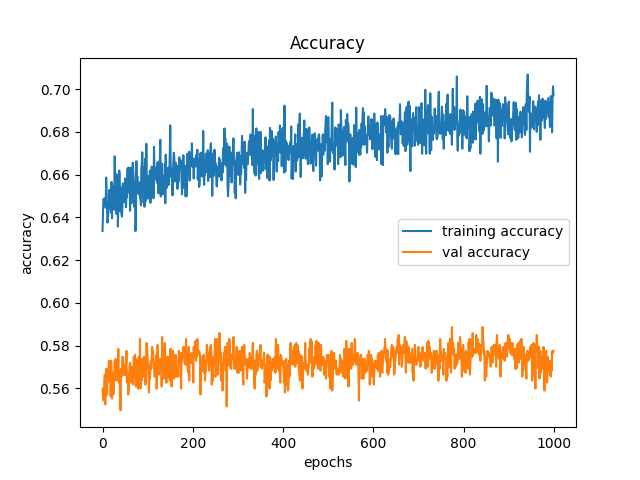
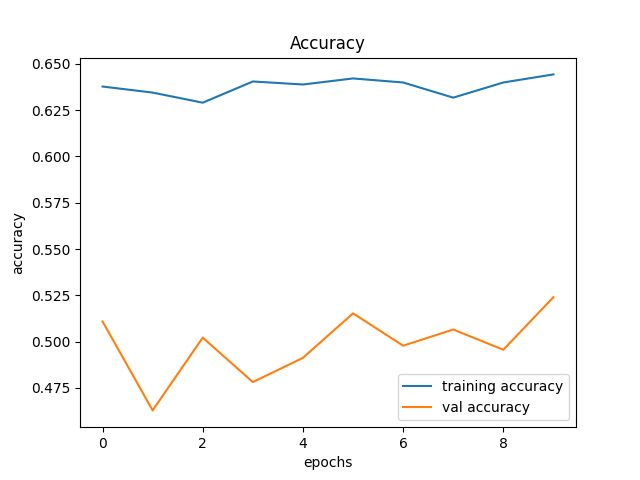
feat: modelo

diff --git a/main.py b/main.py
@@ -26,15 +26,15 @@ os.environ['TF_CPP_MIN_LOG_LEVEL'] = '2'
 seed = 12335234
 
 # Hiperparametros - 1
-batch_size = 64
-epochs = 1000
+batch_size = 32
+epochs = 10
 learning_rate = 1e-4
 
 # Fazer treinamento
 train = False
 
 # Imagem para testar
-image_teste = 'corgi.jpg'
+image_teste = 'validation/corgi2.jpg'
 
 # Tratamento de falha
 
@@ -47,8 +47,8 @@ error_recover = False
 epoch_carregada = 0
 
 # Hiperparametros - 2
-image_width = 40
-image_height = 40
+image_width = 220
+image_height = 220
 image_color_channel = 1
 image_size = (image_width, image_height)
 image_shape = image_size + (image_color_channel,)
@@ -56,16 +56,6 @@ image_shape = image_size + (image_color_channel,)
 racas = [
     "affenpinscher",
     "afghan_hound",
-    "african_hunting_dog",
-    "airedale",
-    "american_staffordshire_terrier",
-    "appenzeller",
-    "australian_terrier",
-    "basenji",
-    "basset",
-    "beagle",
-    "bedlington_terrier",
-    "bernese_mountain_dog",
     "black-and-tan_coonhound",
     "blenheim_spaniel",
     "bloodhound",
@@ -130,20 +120,21 @@ if (train):
             ),
             aumentar_dataset,
 
-            Conv2D(32, 5, activation='relu', padding='same'),
-            Conv2D(32, 5, activation='relu', padding='same'),
+            Conv2D(16, 3, activation='relu', padding='same'),
             MaxPooling2D(),
-            Dropout(.25),
-            Conv2D(64, 3, activation='relu'),
-            Conv2D(64, 3, activation='relu'),
+            Dropout(.2),
+            Conv2D(32, 5, activation='relu'),
             MaxPooling2D(),
-            Dropout(.25),
+            Dropout(.2),
+            Conv2D(64, 3, activation='relu', padding='same'),
+            MaxPooling2D(),
+            Dropout(.2),
 
             Flatten(),
-            Dense(256, activation = 'relu'),
-            Dropout(.5),
+            Dense(112, activation = 'relu'),
+            Dropout(.3),
 
-            Dense(20, activation = 'softmax')
+            Dense(10, activation = 'softmax')
         ])
         return model
 
@@ -155,7 +146,7 @@ if (train):
     model.summary()
 
     callbacks = [
-        #keras.callbacks.EarlyStopping(monitor='val_loss', mode='min', verbose=1, patience=25),
+        #keras.callbacks.EarlyStopping(monitor='val_accuracy', mode='max', min_delta=1),
         keras.callbacks.ModelCheckpoint(diretorio_checkpoint + "/cp_{epoch}.h5", mode="max", monitor="val_accuracy", save_best_only=True),
         CustomCallback()
     ]
@@ -194,8 +185,9 @@ modelo_salvo = tf.keras.models.load_model('model_folder')
 #salvar_h5_model = modelo_salvo.save("model_upload.h5")
 
 
-def predict(image_file):
-    image = converter_imagem(image_file, image_size)
+def predict(imagem_file):
+    print(imagem_file)
+    image = converter_imagem(imagem_file, image_size)
     image = tf.convert_to_tensor(image, dtype=tf.float32)
     image = tf.keras.preprocessing.image.img_to_array(image)
     image = tf.expand_dims(image, 0)
